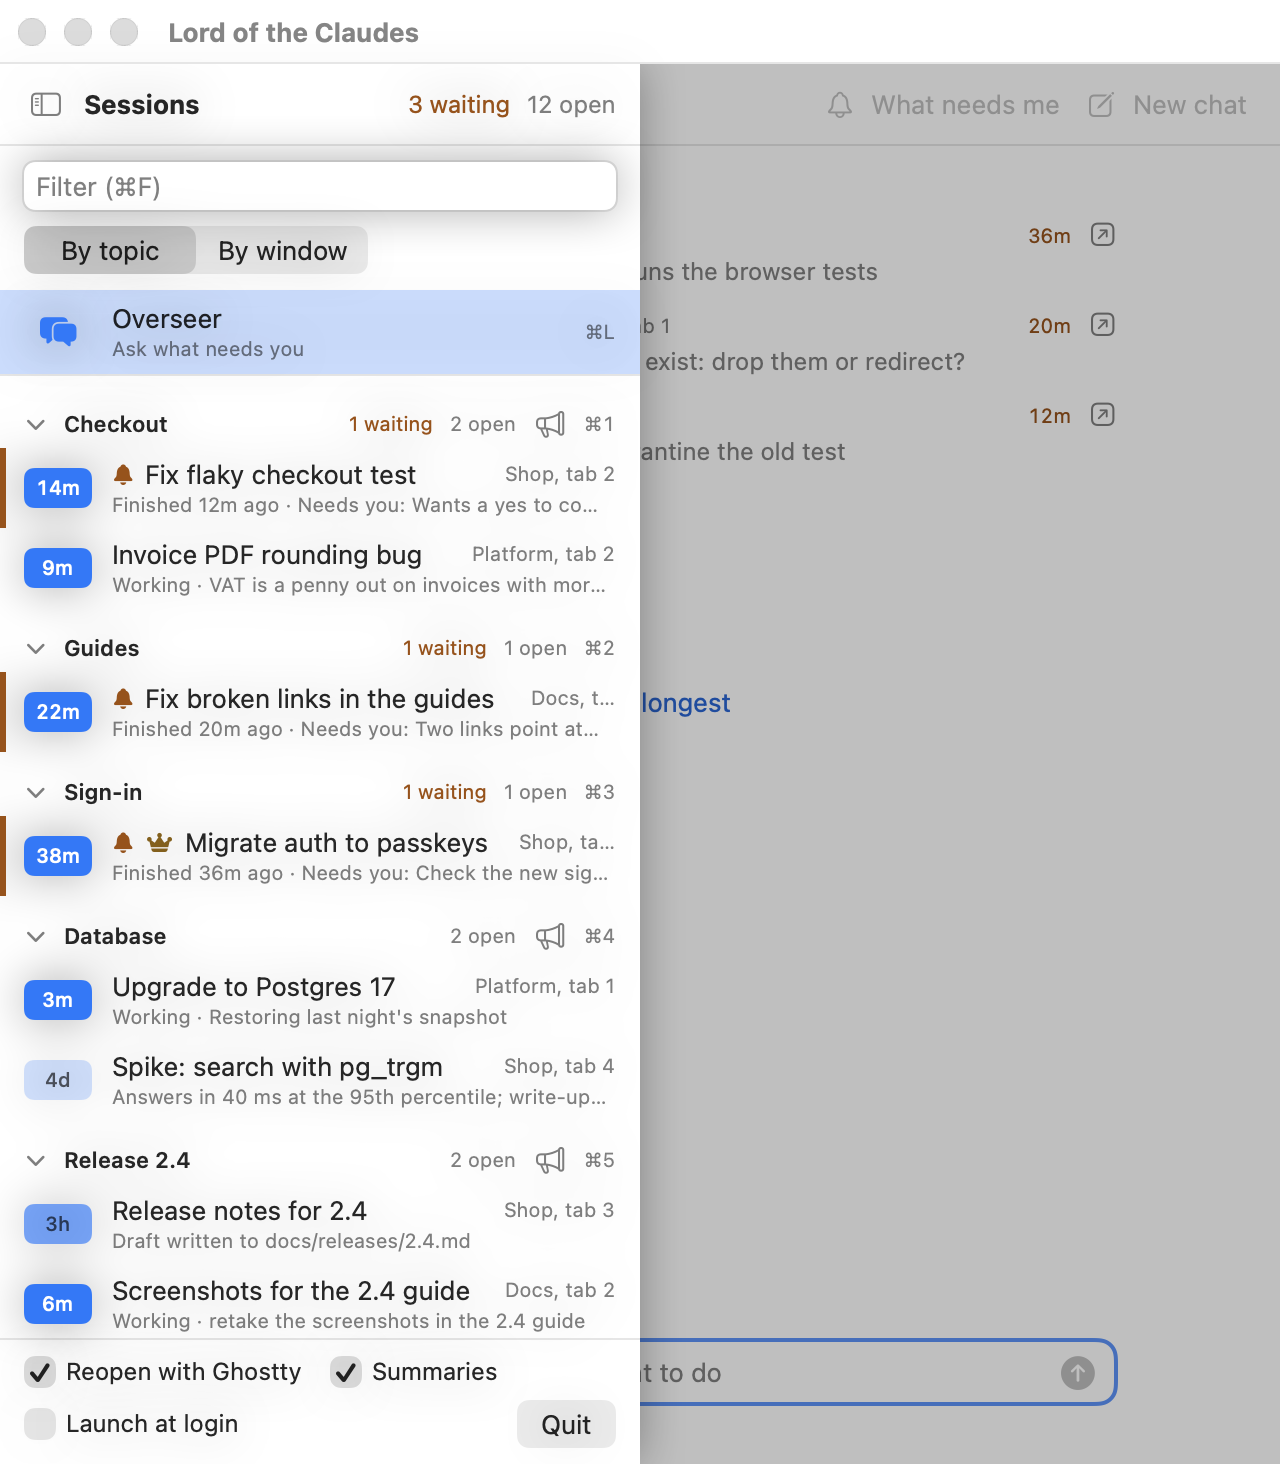
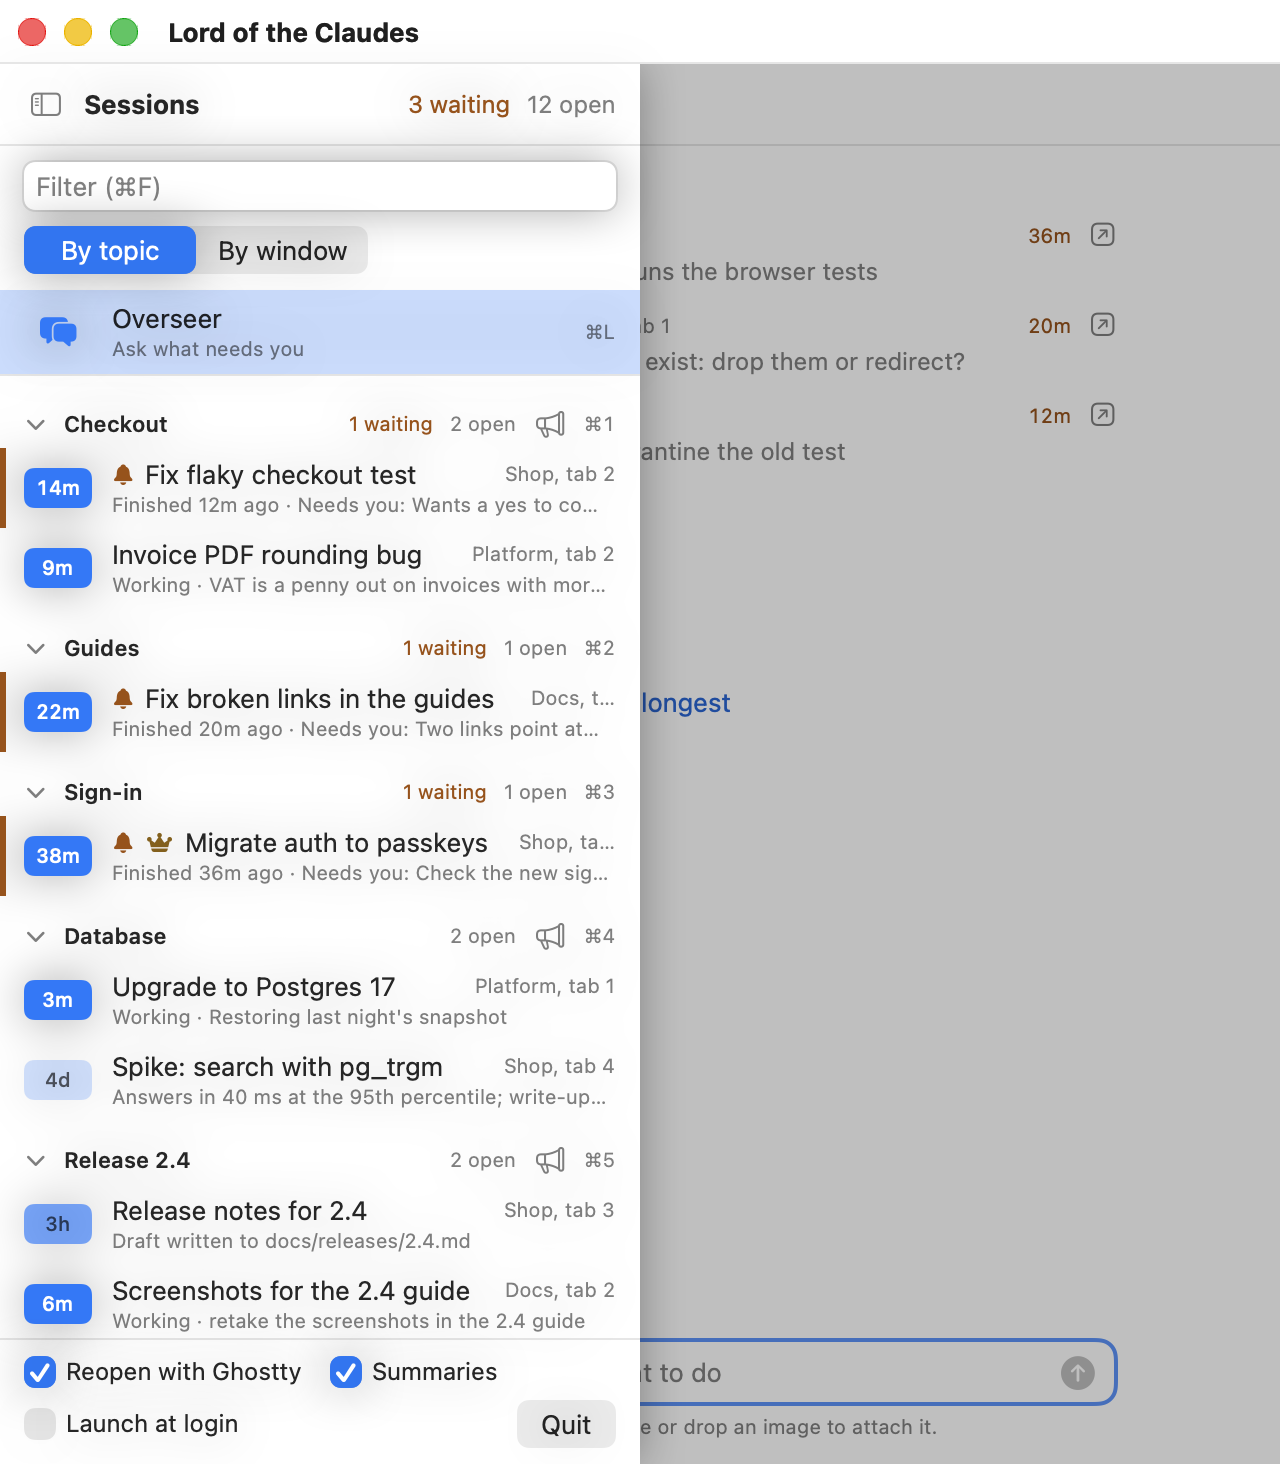
docs: images in the README, with a made-up invoice pasted into the chat
The screenshots are made again: the composer's hint names images and an
empty chat no longer shows its header buttons.

diff --git a/Sources/LordOfTheClaudes/OverseerScreenshots.swift b/Sources/LordOfTheClaudes/OverseerScreenshots.swift
@@ -1,3 +1,4 @@
+import AppKit
 import Foundation
 import LotcKit
 
@@ -54,6 +55,64 @@ extension Screenshots {
                                           prompt: "add a test for an invoice with 21 lines, then fix the rounding"),
                                     places: places)
         return OverseerChat(demo: messages, card: card)
+    }
+
+    /// A screenshot pasted into a message, then a prompt proposed with it, waiting for Send.
+    @MainActor
+    static func imageChat(places: [SessionPlace]) -> OverseerChat {
+        let images = demoInvoice().map { [$0] } ?? []
+        let messages = [
+            OverseerMessage(role: .user, text: "another one a penny out, send it to the invoice session", attachments: images),
+            OverseerMessage(role: .overseer, text: "I would send this to [Invoice PDF rounding bug](session:Platform/2), with your screenshot."),
+        ]
+        var card = RoutingCard.make(.send(targets: [ProposedTarget(group: "Platform", tab: 2, title: "Invoice PDF rounding bug")],
+                                          prompt: "another invoice with the VAT a penny out, see the attached screenshot"),
+                                    places: places)
+        card.images = images
+        return OverseerChat(demo: messages, card: card)
+    }
+
+    /// A made-up invoice with its VAT ringed, drawn here so no real screen is shown.
+    private static func demoInvoice() -> AttachedImage? {
+        let size = NSSize(width: 720, height: 440)
+        guard let bitmap = NSBitmapImageRep(bitmapDataPlanes: nil, pixelsWide: Int(size.width), pixelsHigh: Int(size.height),
+                                            bitsPerSample: 8, samplesPerPixel: 4, hasAlpha: true, isPlanar: false,
+                                            colorSpaceName: .deviceRGB, bytesPerRow: 0, bitsPerPixel: 0)
+        else { return nil }
+        NSGraphicsContext.saveGraphicsState()
+        NSGraphicsContext.current = NSGraphicsContext(bitmapImageRep: bitmap)
+        NSColor(white: 0.9, alpha: 1).setFill()
+        NSRect(origin: .zero, size: size).fill()
+        NSColor.white.setFill()
+        NSBezierPath(roundedRect: NSRect(x: 24, y: 24, width: 672, height: 392), xRadius: 10, yRadius: 10).fill()
+        func text(_ string: String, x: CGFloat, y: CGFloat, size: CGFloat, bold: Bool = false, right: Bool = false,
+                  colour: NSColor = NSColor(white: 0.15, alpha: 1)) {
+            let attributes: [NSAttributedString.Key: Any] = [
+                .font: bold ? NSFont.boldSystemFont(ofSize: size) : NSFont.systemFont(ofSize: size), .foregroundColor: colour,
+            ]
+            let width = (string as NSString).size(withAttributes: attributes).width
+            (string as NSString).draw(at: NSPoint(x: right ? x - width : x, y: y), withAttributes: attributes)
+        }
+        text("Invoice INV-2041", x: 60, y: 340, size: 44, bold: true)
+        text("United Kit Shop · 22 lines", x: 60, y: 304, size: 24, colour: .gray)
+        let rows: [(String, String, CGFloat)] = [("Subtotal", "£1,049.95", 236), ("VAT at 20%", "£210.00", 176), ("Total", "£1,259.95", 116)]
+        for (label, amount, y) in rows {
+            text(label, x: 60, y: y, size: 34, bold: label == "Total")
+            text(amount, x: 660, y: y, size: 34, bold: label == "Total", right: true)
+        }
+        NSColor(white: 0.8, alpha: 1).setFill()
+        NSRect(x: 60, y: 162, width: 600, height: 2).fill()
+        NSColor.systemRed.setStroke()
+        let ring = NSBezierPath(ovalIn: NSRect(x: 486, y: 164, width: 196, height: 64))
+        ring.lineWidth = 6
+        ring.stroke()
+        text("should be £209.99", x: 660, y: 54, size: 30, bold: true, right: true, colour: .systemRed)
+        NSGraphicsContext.restoreGraphicsState()
+        let directory = FileManager.default.temporaryDirectory.appendingPathComponent("LordOfTheClaudes-screenshots")
+        try? FileManager.default.createDirectory(at: directory, withIntermediateDirectories: true)
+        let file = directory.appendingPathComponent("invoice.png")
+        guard let png = bitmap.representation(using: .png, properties: [:]), (try? png.write(to: file)) != nil else { return nil }
+        return AttachedImage(path: file.path)
     }
 
     /// A send already confirmed, then a question the briefing cannot answer: a tab to look at, waiting for Go.

diff --git a/Sources/LordOfTheClaudes/Screenshots.swift b/Sources/LordOfTheClaudes/Screenshots.swift
@@ -18,6 +18,7 @@ enum Screenshots {
             Shot(name: "window-light", appearance: .aqua, grouping: .window, chat: { _ in questionChat() }),
             Shot(name: "window-overseer", appearance: .darkAqua, chat: { sendChat(places: $0) }),
             Shot(name: "window-goto", appearance: .aqua, chat: { goToChat(places: $0) }),
+            Shot(name: "window-image", appearance: .aqua, chat: { imageChat(places: $0) }),
             Shot(name: "window-session", appearance: .darkAqua, pane: .session("2")),
             Shot(name: "window-reply", appearance: .aqua, pane: .session("1"),
                  drafts: ["1": "log the random seed on every run, then run it 50 times"]),

diff --git a/README.md b/README.md
@@ -10,6 +10,7 @@ One window to rule them all. A macOS app in the menu bar that tracks every Claud
 
 - **Is a proper window.** Resize it, tile it, take it full screen. Ctrl+Option+C or the menu bar icon brings it to the front and hides it again. Closing it leaves the app in the menu bar. While it shows, the app is in the Dock and Cmd+Tab.
 - **Has an overseer to talk to.** The main area is a chat with it. Ask where things stand, tell it what a session should do, or ask it to take you to one. See [Ask the overseer](#ask-the-overseer).
+- **Takes screenshots.** Paste or drop images into a message. The overseer sees them, and a prompt it routes takes them to the session. See [Images](#images).
 - **Lists what needs you.** Every session waiting for you, across all windows, longest wait first, with what each is waiting for.
 - **Groups sessions by topic.** The observer files each session under what it is about, "Checkout", "Holiday", "Tax", so a window full of unrelated work sorts itself out. Or group by Ghostty window instead. See [Topics](#topics).
 - **Shows a session in full.** Click one in the sidebar for its place, its summary, what it did before and its recent prompts, with Go to tab, Make lord and Close.
@@ -52,6 +53,7 @@ On first run macOS asks to let it control Ghostty. Allow it.
 | Ctrl+Option+C | Bring the window to the front, or hide it when it is in front |
 | Type, then Return | Ask the overseer |
 | Shift+Return | A new line in the message |
+| Cmd+V, with an image copied | Attach it to the message |
 | Cmd+L | Back to the overseer, with the keyboard in its box |
 | Cmd+0 | Show or hide the sidebar |
 | Cmd+F | Filter by title, directory, group, topic or summary |
@@ -103,7 +105,7 @@ The overseer is a Claude Code conversation the app runs for you. Type in the box
 What it sees and what it uses:
 
 - It runs `claude -p` on your own Claude Code login, so it counts towards your plan like any other session. An answer takes a few seconds.
-- It sees a short briefing with each message, not transcripts: every open session's group, tab, title, directory, status and digest, or its last prompt when there is no digest. It has no tools, hooks, MCP servers or CLAUDE.md (`--safe-mode`), so it cannot read a file or run anything.
+- It sees a short briefing with each message, not transcripts: every open session's group, tab, title, directory, status and digest, or its last prompt when there is no digest. It has no tools, hooks, MCP servers or CLAUDE.md (`--safe-mode`), so it cannot read a file or run anything. Images you attach go with the message.
 - The chat is kept in `overseer.json` beside `state.json`, up to 60 messages. New chat starts a fresh conversation.
 - Claude Code keeps the instructions a conversation started with. When an upgrade changes the overseer's, the next question starts a fresh conversation and hands it the chat's last 20 messages, so you are never left on the old ones.
 - To change the model, edit `~/Library/Application Support/LordOfTheClaudes/overseer-settings.json`:
@@ -111,6 +113,20 @@ What it sees and what it uses:
       {"effort": "low", "model": "sonnet"}
 
   `model` takes any alias or model name Claude Code does, `effort` any of its `--effort` levels. If the app cannot find `claude`, add `"claude": "/path/to/claude"`.
+
+## Images
+
+<p align="center">
+  <img src="docs/window-image.png" width="820" alt="A screenshot of an invoice pasted into a message, and the overseer proposing to send it to the invoice session, the image listed on the card">
+</p>
+
+Paste a screenshot with Cmd+V, or drop image files on the chat, and it goes with your message. A copied image, an image file copied in Finder and a screenshot all work. Text pastes as before.
+
+- **Up to five a message.** Each shows above the words with a button to take it off. Anything over 2,000 pixels across is scaled down.
+- **The overseer sees them.** It answers about them like any other question.
+- **They go where the prompt goes.** When the overseer proposes a prompt from a message with images, the card lists them. Take any off before Send. The prompt is typed into the tab with each image's path on a line after it, which Claude Code takes as the image, as when you drop a file on its tab. A new session is started with the paths in its prompt and leave to read the images folder (`--add-dir`).
+- **Replies too.** Paste or drop images into a session's "Send a prompt" box, or into a card's prompt.
+- **Where they live.** `~/Library/Application Support/LordOfTheClaudes/attachments`, named by their content. The chat remembers each message's images. An image is deleted once no saved message has it and it is a week old, so a session sent one has time to read it.
 
 ## Answer permission prompts in one place
 
@@ -194,13 +210,13 @@ Links pasted into a session are picked up by themselves. To turn a Jira key or t
 - It drives Ghostty through AppleScript. Tabs are matched to sessions by title. A new session's tab reads "Claude Code" until Claude names it, so it is matched by directory instead, when it is the only such session and tab there. It never guesses: a session it cannot place shows under "Other" when grouped by window.
 - Replies and broadcasts are typed into the tab through AppleScript, as if you had typed them.
 - `lotc` talks to the app over a Unix socket only you can open: `~/Library/Application Support/LordOfTheClaudes/lotc.sock`. It finds its session by walking up its parent processes to one listed in `~/.claude/sessions`.
-- It only reads Claude's files, except that `lotc hooks install` adds two hooks to `~/.claude/settings.json`. Its own state, summaries and topics included, is `~/Library/Application Support/LordOfTheClaudes/state.json`, with `overseer.json` and `overseer-settings.json` beside it.
+- It only reads Claude's files, except that `lotc hooks install` adds two hooks to `~/.claude/settings.json`. Its own state, summaries and topics included, is `~/Library/Application Support/LordOfTheClaudes/state.json`, with `overseer.json`, `overseer-settings.json` and the `attachments` folder beside it.
 - The overseer's conversation is an ordinary Claude Code session in `~/Library/Application Support/LordOfTheClaudes/overseer`. It is never listed in the sidebar, and runs with `LOTC_OBSERVER=1` so `lotc`'s own hooks leave it alone.
-- The app has no network code. The summariser's `claude -p` runs and what you ask the overseer, with the briefing, go to Anthropic through Claude Code. Nothing else leaves your Mac.
+- The app has no network code. The summariser's `claude -p` runs and what you ask the overseer, with the briefing and any images, go to Anthropic through Claude Code. Nothing else leaves your Mac.
 
 ## Expect breakage
 
-Claude Code's session files are undocumented and can change in any release. Tested with Claude Code 2.1.326, Ghostty 1.3.1 and macOS 26. The summariser and the overseer need its `--safe-mode`. If a new version breaks it, open an issue.
+Claude Code's session files are undocumented and can change in any release. Tested with Claude Code 2.1.326, Ghostty 1.3.1 and macOS 26. The summariser and the overseer need its `--safe-mode`. Images sent to a tab rely on it taking a pasted image path as the image. If a new version breaks it, open an issue.
 
 ## Development
 
@@ -209,6 +225,7 @@ Claude Code's session files are undocumented and can change in any release. Test
 - To try `lotc` beside an installed copy, run the build with `LOTC_SANDBOX=1 LOTC_SOCKET=<path>`. That turns off the hotkey and state.json, and keeps the overseer's files in a temporary folder. Set the same `LOTC_SOCKET` for `lotc`.
 - `.build/debug/LordOfTheClaudes --summarise <transcript.jsonl>` runs the summariser once on a transcript and prints what it wrote.
 - `LOTC_SANDBOX=1 .build/debug/LordOfTheClaudes --ask <briefing.txt> "<question>"` asks the overseer once against a briefing in a file, in the shape `lotc digest --all` prints, and shows what it proposes. Nothing is kept.
+- `LOTC_SANDBOX=1 LOTC_CLAUDE_TESTS=1 ./build.sh test --filter LiveOverseerTests` sends made-up images to the real `claude -p` and carries the conversation on. It uses a little of your plan.
 
 ## Screenshots
 
